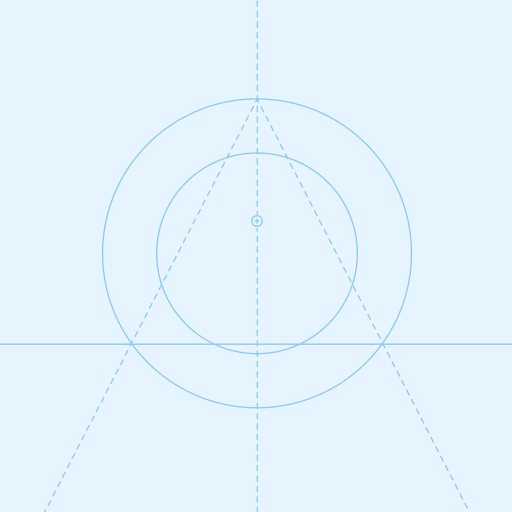
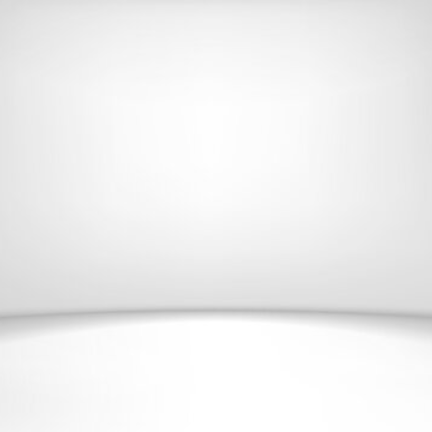
corrección de trim

diff --git a/app/(personalization)/personalization.tsx b/app/(personalization)/personalization.tsx
@@ -1,4 +1,3 @@
-// app/(personalization)/personalization.tsx
 import { Ionicons } from '@expo/vector-icons';
 import { Stack, useLocalSearchParams, useRouter } from 'expo-router';
 import React, { useEffect, useState } from 'react';
@@ -33,20 +32,14 @@ const DEFAULT_TEXT_DATA: TextData = {
     fontStyle: 'normal',
 };
 
-// 2. CORRECCIÓN CLAVE: Interfaz de Props esperada para ModelCleanViewer.
-// Debe incluir el 'modelId' para que coincida con el componente refactorizado.
-// La prop 'modelId' ahora es obligatoria.
 interface ModelCleanViewerProps {
     modelUrl: string;
-    modelId: number; // ✨ AÑADIDO y REQUERIDO
-    textData: TextData; // Aunque no la usas aún en ModelCleanViewer, la mantengo si la planeas usar.
-    selectedImage: { uri: string } | null; // Igual que arriba.
+    modelId: number; 
+    textData: TextData;
+    selectedImage: { uri: string } | null;
 }
 
-// 3. Definición tipada del componente ModelCleanViewer
-// (Esto es solo un bypass temporal; idealmente, esta interfaz se exportaría del componente)
 const ModelCleanViewerTyped = ModelCleanViewer as React.ComponentType<ModelCleanViewerProps>;
-
 
 const PersonalizationScreen = () => {
     const { modelId } = useLocalSearchParams() as { modelId: string };
@@ -54,7 +47,7 @@ const PersonalizationScreen = () => {
     const [isLoading, setIsLoading] = useState(true);
     const [selectedImage, setSelectedImage] = useState<{ uri: string } | null>(null);
 
-    const modelIdNumber = parseInt(modelId, 10); // ✨ Convertimos el modelId de string a number
+    const modelIdNumber = parseInt(modelId, 10);
 
     // 2. Usar la constante para inicializar el estado
     const [textData, setTextData] = useState<TextData>(DEFAULT_TEXT_DATA);
@@ -98,10 +91,6 @@ const PersonalizationScreen = () => {
         };
         fetchModel();
     }, [modelId]);
-
-
-    // ... (otras funciones como handleImageSelect, handleImageRemove, handleTextChange, handleTabChange, handleGoBack, handleRefresh, handlePreview) ...
-    // ... Mantenemos el resto de las funciones iguales a tu código original ...
 
     const handleImageSelect = (imageUri: string) => {
         setSelectedImage({ uri: imageUri });
@@ -232,7 +221,7 @@ const PersonalizationScreen = () => {
 
 
     if (isLoading) {
-        // ✅ CORRECCIÓN: Usamos SafeAreaView aquí para manejar el notch en el estado de carga
+        // Usamos SafeAreaView aquí para manejar el notch en el estado de carga
         return (
             <SafeAreaView style={[styles.safeArea, { backgroundColor: backgroundColor }]}>
                 <View style={styles.loadingContainer}>
@@ -243,8 +232,8 @@ const PersonalizationScreen = () => {
         );
     }
     
-    if (!modelData || isNaN(modelIdNumber)) { // ✨ Verificamos que modelIdNumber sea válido
-        // ✅ CORRECCIÓN: Usamos SafeAreaView aquí para manejar el notch en el estado de error
+    if (!modelData || isNaN(modelIdNumber)) {
+        //  Usamos SafeAreaView aquí para manejar el notch en el estado de error
         return (
             <SafeAreaView style={[styles.safeArea, { backgroundColor: backgroundColor }]}>
                 <View style={styles.loadingContainer}>
@@ -254,7 +243,7 @@ const PersonalizationScreen = () => {
         );
     }
 
-    // ⭐ CONTENIDO PRINCIPAL: Mantenemos View porque el Stack Header ya está visible
+    // CONTENIDO PRINCIPAL: Mantenemos View porque el Stack Header ya está visible
     return (
         <View style={[styles.rootContainer, { backgroundColor: headerBgColor }]}>
             <Stack.Screen
@@ -361,7 +350,6 @@ const styles = StyleSheet.create({
         alignItems: 'center',
         paddingVertical: 20,
     },
-    // Ajustado para que el loading container use flex: 1, ahora es hijo de SafeAreaView
     loadingContainer: {
         flex: 1,
         justifyContent: 'center',

diff --git a/app/(personalization)/preview.tsx b/app/(personalization)/preview.tsx
@@ -1,14 +1,13 @@
 import { Ionicons } from '@expo/vector-icons';
-import * as MediaLibrary from 'expo-media-library'; // ✨ Importar MediaLibrary
+import * as MediaLibrary from 'expo-media-library';
 import { Stack, useLocalSearchParams, useRouter } from 'expo-router';
 import * as Sharing from 'expo-sharing';
 import React, { useMemo, useRef } from 'react';
 import { Alert, Dimensions, ScrollView, StyleSheet, Text, TouchableOpacity, View } from 'react-native';
-import ModelViewer, { ModelViewerHandle } from '../../components/ModelViewer'; // ✨ Importar la interfaz Handle
+import ModelViewer, { ModelViewerHandle } from '../../components/ModelViewer';
 import { useThemeColor } from '../../hooks/use-theme-color';
 import { TextData } from '../../utils/types';
 
-// NOTA: Eliminamos la conversión extraña de ModelViewerTyped porque ahora está tipado correctamente
 const { width } = Dimensions.get('window');
 const DEFAULT_TEXT_DATA: TextData = { text: '', color: '#000000', size: 24, fontWeight: 'normal', fontStyle: 'normal' };
 
@@ -16,10 +15,9 @@ const PreviewScreen = () => {
   const params = useLocalSearchParams();
   const router = useRouter();
 
-  // ✨ Referencia para controlar el ModelViewer
+  // Referencia para controlar el ModelViewer
   const modelViewerRef = useRef<ModelViewerHandle>(null);
 
-  // ... (Resto de tus definiciones de parámetros y colores igual que antes) ...
   const { modelId, selectedImageUri, textData: serializedTextData, modelUrl } = params as {
     modelId: string | undefined;
     selectedImageUri: string | null | undefined;
@@ -58,7 +56,7 @@ const PreviewScreen = () => {
   const handleGoBack = () => router.back();
   const handleGoHome = () => router.push('/');
 
-  // ✨ FUNCIÓN DE DESCARGA IMPLEMENTADA
+  // FUNCIÓN DE DESCARGA IMPLEMENTADA
   const handleDownload = async () => {
     try {
         // 1. Solicitar permisos
@@ -108,9 +106,6 @@ const PreviewScreen = () => {
                     mimeType: 'image/png', // Define el tipo de archivo (ViewShot usa PNG por defecto)
                     dialogTitle: 'Comparte tu diseño 3D personalizado',
                 });
-                
-                // Nota: No es necesario guardar en MediaLibrary antes de compartir.
-                // La URI temporal es suficiente.
             } else {
                 Alert.alert('Error', 'No se pudo generar la captura para compartir.');
             }
@@ -123,9 +118,7 @@ const PreviewScreen = () => {
 
   const { selectedImage, textData, modelUrl: finalModelUrl, modelId: finalModelId } = personalizationData;
 
-  // ... (Bloque de error igual que antes) ...
   if (!finalModelId || !finalModelUrl) {
-      // ... (Mismo código de error que tenías)
       return <View><Text>Error</Text></View>; // Simplificado para el ejemplo
   }
 
@@ -155,7 +148,6 @@ const PreviewScreen = () => {
         <View style={[styles.modelContainer, { backgroundColor: cardBgColor }]}>
           <Text style={[styles.productTitle, { color: primaryTextColor }]}>Modelo ID: {modelId}</Text>
           
-          {/* ✨ Asignamos la referencia aquí */}
           <ModelViewer
             ref={modelViewerRef} 
             modelUrl={finalModelUrl}
@@ -167,7 +159,7 @@ const PreviewScreen = () => {
 
         <TouchableOpacity
           style={[styles.actionButton, { backgroundColor: buttonBgColor }]}
-          onPress={handleDownload} // ✨ Conectamos la función
+          onPress={handleDownload}
         >
           <Text style={[styles.actionButtonText, { color: buttonTextColor }]}>Descargar Imagen</Text>
         </TouchableOpacity>
@@ -183,7 +175,6 @@ const PreviewScreen = () => {
   );
 };
 
-// ... (Tus estilos se mantienen igual) ...
 const styles = StyleSheet.create({
   safeArea: { flex: 1 },
   rootContainer: { flex: 1 },

diff --git a/components/ModelViewer.tsx b/components/ModelViewer.tsx
@@ -10,7 +10,7 @@ import {
     Text,
     View,
 } from 'react-native';
-import { captureRef } from 'react-native-view-shot'; // ✨ IMPORTANTE
+import { captureRef } from 'react-native-view-shot';
 import * as THREE from 'three';
 import { MeshStandardMaterial, Texture } from 'three';
 import { GLTFLoader } from 'three-stdlib';
@@ -38,7 +38,6 @@ export interface ModelViewerHandle {
     captureSnapshot: () => Promise<string | null>;
 }
 
-// --- Componente PersonalizationScene (Sin Cambios Lógicos, solo lo incluimos por completitud) ---
 const PersonalizationScene = React.memo(({ gltf, textData, texture, modelId }: SceneProps) => {
     const { scene } = useThree();
     const materialRef = useRef<MeshStandardMaterial | null>(null);
@@ -147,7 +146,6 @@ const PersonalizationScene = React.memo(({ gltf, textData, texture, modelId }: S
 
 PersonalizationScene.displayName = 'PersonalizationScene';
 
-// --- Componente Principal ModelViewer con forwardRef ---
 const ModelViewer = forwardRef<ModelViewerHandle, ModelViewerProps>(({ modelUrl, textData, selectedImage, modelId }, ref) => {
     const loadingColor = useThemeColor({ light: '#0056b3', dark: '#007bff' }, 'tint');
     const [localUri, setLocalUri] = useState<string | null>(null);
@@ -159,7 +157,7 @@ const ModelViewer = forwardRef<ModelViewerHandle, ModelViewerProps>(({ modelUrl,
     // Referencia al contenedor que queremos capturar
     const viewShotRef = useRef<View>(null);
 
-    // ✨ Exponer la función captureSnapshot al componente padre
+    // Exponer la función captureSnapshot al componente padre
     useImperativeHandle(ref, () => ({
         captureSnapshot: async () => {
             try {
@@ -257,15 +255,20 @@ const ModelViewer = forwardRef<ModelViewerHandle, ModelViewerProps>(({ modelUrl,
         return () => { isCancelled = true; };
     }, [selectedImage?.uri]);
 
-    const canvasConfig = useMemo(() => ({
-        camera: { position: [0, 0, 3] as [number, number, number], fov: 50 }, 
-        gl: { 
-            antialias: true,
-            alpha: true,
-            // ✨ CLAVE: Esto evita que el canvas salga negro al tomar captura
-            preserveDrawingBuffer: true 
-        }
-    }), []);
+const canvasConfig = useMemo(() => ({
+    camera: { position: [0, 0, 3] as [number, number, number], fov: 50 }, 
+    gl: { 
+        antialias: true,
+        alpha: true,
+        preserveDrawingBuffer: true,
+        // ⭐ CLAVE DE CORRECCIÓN: Agregar failIfMajorPerformanceCaveat: false
+        failIfMajorPerformanceCaveat: false, 
+        // ⭐ CLAVE DE CORRECCIÓN: Agregar logarithmicDepthBuffer: true
+        logarithmicDepthBuffer: true,
+        // A veces ayuda a evitar errores de shader
+        // powerPreference: 'high-performance' as WebGLContextEvent['powerPreference'],
+    }
+}), []);
 
 
     if (loadingError) {
@@ -286,7 +289,7 @@ const ModelViewer = forwardRef<ModelViewerHandle, ModelViewerProps>(({ modelUrl,
     }
 
     return (
-        // ✨ Envolvemos en View con collapsable=false y la ref para ViewShot
+        // Envolvemos en View con collapsable=false y la ref para ViewShot
         <View ref={viewShotRef} collapsable={false} style={styles.container}>
             <Canvas {...canvasConfig}>
                 <OrbitControls
@@ -331,5 +334,4 @@ const styles = StyleSheet.create({
     },
 });
 
-// Exportamos usando memo pero envolviendo el componente con forwardRef
 export default React.memo(ModelViewer);

diff --git a/components/SceneRenderer.tsx b/components/SceneRenderer.tsx
@@ -4,9 +4,6 @@ import React, { useMemo } from "react";
 import * as THREE from "three";
 import { GLTFLoader } from "three-stdlib";
 
-// Asegúrate de importar o definir ModelAdjustment aquí si no usas un archivo de tipos
-// (Asumo que importarás ModelAdjustment si lo mueves a un archivo separado)
-
 interface SceneRendererProps {
   modelUrl: string; 
   scaleFactor?: number;
@@ -41,6 +38,37 @@ const Model = React.memo(
     const adjustedScene = useMemo(() => {
       const scene = gltf.scene.clone();
 
+  scene.traverse((child) => {
+    if (child instanceof THREE.Mesh) {
+        let materialToUse = child.material;
+
+        // Verificar si el material está ausente o es null/undefined
+        if (!materialToUse) {
+            // ⭐ CLAVE: Asignar un material por defecto si no existe
+            materialToUse = new THREE.MeshStandardMaterial({ color: 0x808080 }); 
+        }
+        
+        // 1. Clonar el material (como hiciste antes)
+        if (Array.isArray(materialToUse)) {
+            materialToUse = materialToUse.map(mat => (mat ? mat.clone() : new THREE.MeshStandardMaterial({ color: 0x808080 })));
+        } else if (materialToUse) { // Ya verificamos que no es nulo
+            materialToUse = materialToUse.clone();
+        } 
+        // Nota: Si materialToUse era inicialmente null, ya se asignó un nuevo material.
+
+        // Reasignar el material clonado/por defecto
+        child.material = materialToUse; // Reasignar el material clonado/por defecto
+            
+            // Asegurarse de que el renderizado de la luz esté habilitado (pista de Three.js)
+            if (child.material && !Array.isArray(child.material)) {
+              child.material.needsUpdate = true; // Forzar actualización
+              // Si usas THREE.MeshStandardMaterial o PBR, necesitas UVs.
+            }
+
+            // Opcional: Desactivar culling (déjalo comentado por ahora)
+            // child.frustumCulled = false; 
+        }
+      });
       // --- 1. NORMALIZACIÓN Y CENTRADO AUTOMÁTICO (EXISTENTE) ---
       const box = new THREE.Box3().setFromObject(scene);
       const size = box.getSize(new THREE.Vector3());

diff --git a/utils/modelConfigs.ts b/utils/modelConfigs.ts
@@ -33,8 +33,7 @@ export const MODEL_PERSONALIZATION_CONFIGS: ModelPersonalizationConfig[] = [
     {
         modelId: 5, 
         // ✨ CORRECCIÓN: Cambiamos 'Object_0' por el nombre real encontrado en los logs
-        targetMeshName: 'Object_2', 
-        uvGenerator: generateCylindricalUVs, 
+        targetMeshName: 'Object_2',  
         
         textPosition: [0, 0, 0], 
         textRotation: [0, 0, 0],
